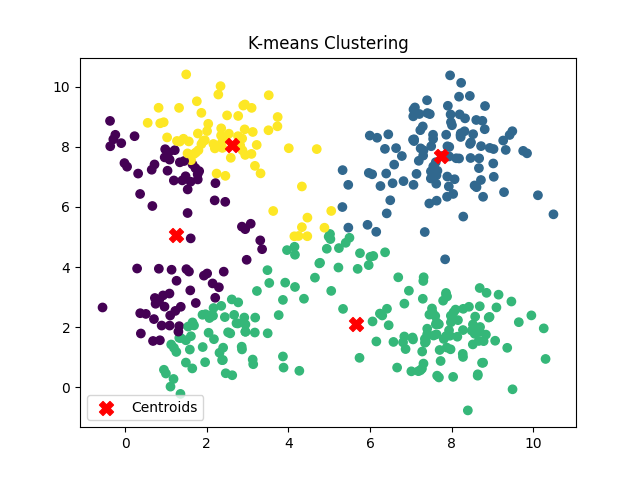
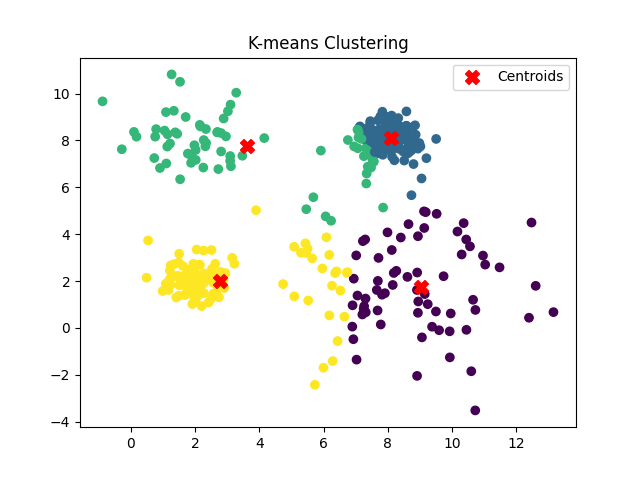
feat: use same K but different starting points

diff --git a/main.py b/main.py
@@ -45,18 +45,21 @@ if __name__ == "__main__":
     if sys.version_info[0:2] != (3, 11):
         raise Exception("Requires python 3.11")
 
+    cluster_params = [
+        {'mean': [2, 2], 'std': 0.5, 'size': 100},
+        {'mean': [8, 2], 'std': 2.0, 'size': 100},
+        {'mean': [2, 8], 'std': 1.0, 'size': 50},
+        {'mean': [8, 8], 'std': 0.5, 'size': 150}
+    ]
+
+    # Generate data for each cluster
+    clusters = [np.random.normal(loc=params['mean'], scale=params['std'], size=(params['size'], 2)) for params in
+                cluster_params]
+
+
     np.random.seed(0)
-
-    # Create four distinct clusters
-    data = np.concatenate([np.random.normal(loc=[2, 2], scale=1, size=(100, 2)),
-                           np.random.normal(loc=[8, 2], scale=1, size=(100, 2)),
-                           np.random.normal(loc=[2, 8], scale=1, size=(100, 2)),
-                           np.random.normal(loc=[8, 8], scale=1, size=(100, 2))])
-
-    # Add some noise between the clusters
-    noise = np.random.normal(loc=[5, 5], scale=1, size=(40, 2))
-    data = np.vstack((data, noise))
-
+    # Concatenate the clusters to create the final dataset
+    data = np.concatenate(clusters)
 
     # Initialize and fit the K-means model
     cluster_assignments, centroids = KMeans(data=data, k=4, label="A")
@@ -69,7 +72,7 @@ if __name__ == "__main__":
     plt.savefig("./figures/A_clustering.png")
     plt.show()
 
-    cluster_assignments, centroids = KMeans(data=data, k=3, label="B")
+    cluster_assignments, centroids = KMeans(data=data, k=4, label="B")
 
     # Plot the data points and centroids
     plt.scatter(data[:, 0], data[:, 1], c=cluster_assignments, cmap='viridis')
